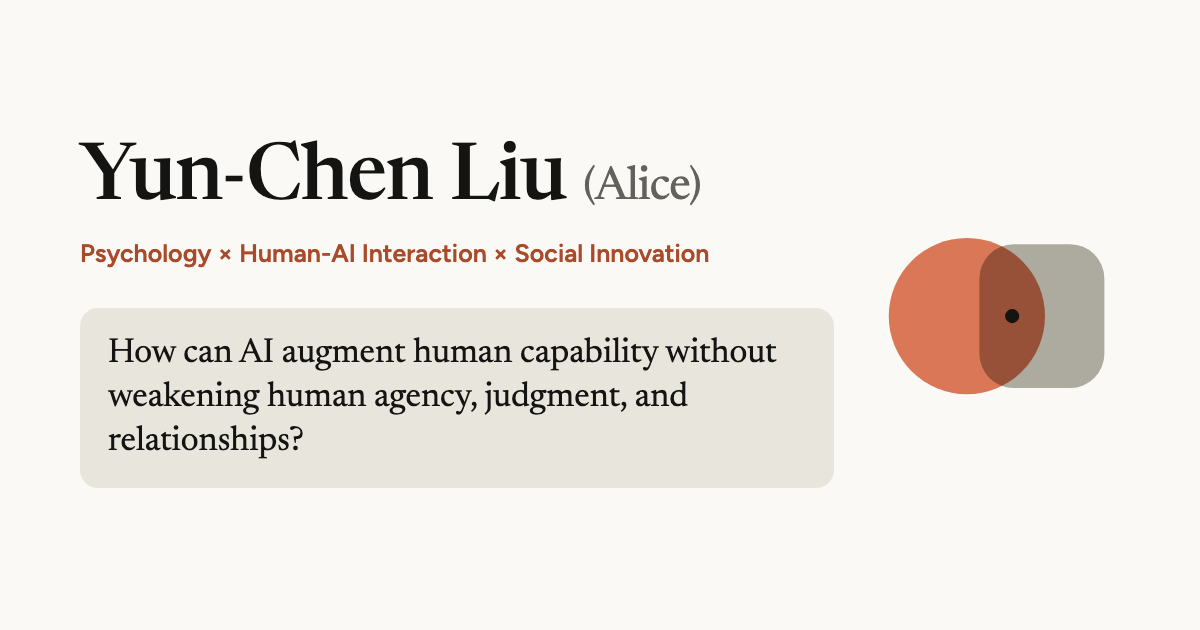
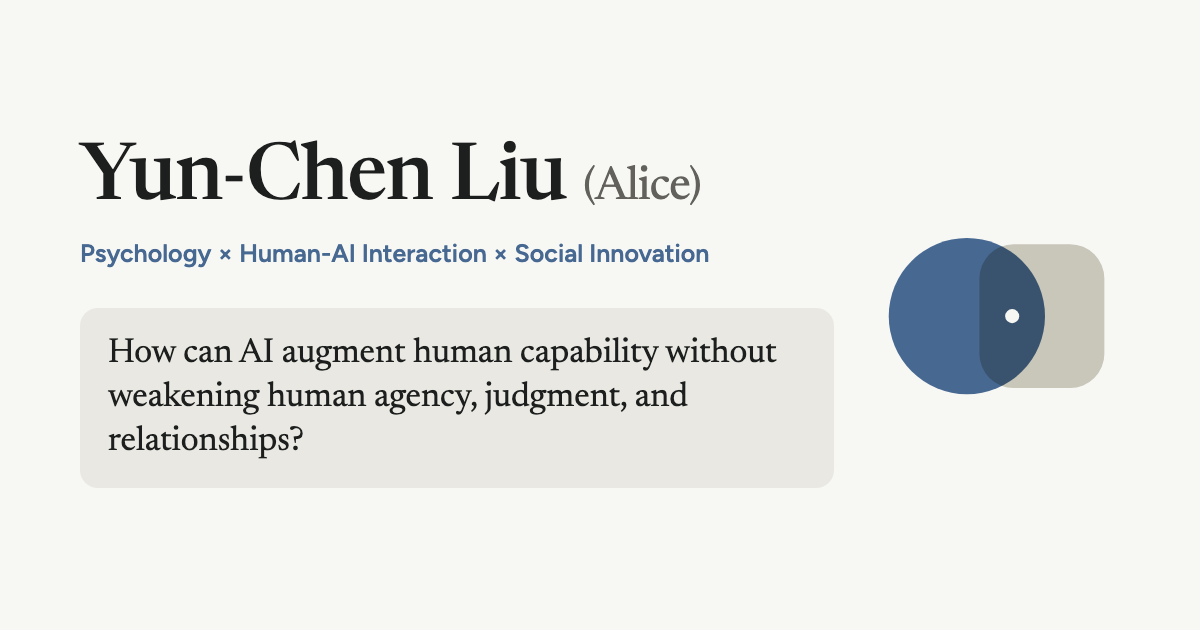
Make a lighter navy the default palette; keep clay family as alternate versions

Changed region(s): [[0.74, 0.3619, 0.925, 0.6333], [0.0617, 0.3921, 0.5858, 0.4222]]

diff --git a/src/styles/global.css b/src/styles/global.css
@@ -1,22 +1,23 @@
 /*
-  Visual concept: "The space between" — a person (warm circle) and a machine
-  (cool rounded square) overlapping. Calm, approachable, research-led.
+  Visual concept: "The space between" — a person (circle) and a machine
+  (rounded square) overlapping. Calm, approachable, research-led.
   Full rationale and tokens: kept in the private design notes
 */
 :root {
   color-scheme: light;
-  /* Default palette "clay" (Anthropic brand colors) */
-  --bg: #faf9f5;          /* ivory */
+  /* Default palette "navy" */
+  --bg: #f7f7f4;
   --surface: #ffffff;
-  --panel: #e8e6dc;       /* light gray */
-  --ink: #141413;         /* dark */
-  --ink-soft: #3d3d3a;
+  --panel: #e9e8e3;
+  --ink: #1c1f1d;
+  --ink-soft: #3d3f3c;
   --muted: #62615b;
-  --line: #e0ddd2;
-  --accent: #a94b2a;      /* clay, darkened for text contrast */
-  --human: #d97757;       /* orange — the person */
-  --machine: #b0aea5;     /* mid gray — the machine */
-  --human-soft: #f6e3d9;
+  --line: #dedcd5;
+  --accent: #466891;      /* links */
+  --human: #466891;       /* navy — the person */
+  --machine: #cfccc2;     /* light gray — the machine */
+  --human-soft: #e3e9f1;
+  --dot: #f7f7f4;         /* human judgment, inside the overlap */
   --radius: 14px;
   --content-width: 1080px;
   --reading-width: 680px;
@@ -30,9 +31,14 @@
 }
 
 /*
-  Palette versions. The default above is "clay". To switch, change
+  Palette versions. The default above is "navy". To switch, change
   `palette` in src/data/site.ts. All text colors meet WCAG AA on --bg and --panel.
+  The "clay" family uses Anthropic brand colors.
 */
+:root[data-palette="clay"], :root[data-palette="clay-olive"], :root[data-palette="fig"], :root[data-palette="kraft"] {
+  --bg: #faf9f5; --panel: #e8e6dc; --ink: #141413; --ink-soft: #3d3d3a; --line: #e0ddd2;
+  --accent: #a94b2a; --human: #d97757; --machine: #b0aea5; --human-soft: #f6e3d9; --dot: #141413;
+}
 :root[data-palette="clay-olive"] { --machine: #788c5d; }
 :root[data-palette="fig"] { --human: #c46686; --machine: #cbcadb; --accent: #9b3f63; --human-soft: #f3dfe7; }
 :root[data-palette="kraft"] { --human: #d4a27f; --machine: #788c5d; --accent: #566b3f; --human-soft: #f3e6da; }
@@ -42,7 +48,7 @@ html { scroll-behavior: smooth; }
 body { margin: 0; min-width: 320px; background: var(--bg); color: var(--ink); font-size: 1.0625rem; line-height: 1.65; }
 a { color: var(--accent); text-decoration-thickness: 1px; text-underline-offset: 0.22em; }
 a:hover { color: var(--ink); }
-a:focus-visible, summary:focus-visible { outline: 3px solid var(--human); outline-offset: 3px; border-radius: 4px; }
+a:focus-visible, summary:focus-visible { outline: 3px solid var(--accent); outline-offset: 3px; border-radius: 4px; }
 ::selection { background: var(--human-soft); color: var(--ink); }
 
 .skip-link { position: absolute; top: 0.75rem; left: 0.75rem; z-index: 20; transform: translateY(-150%); padding: 0.7rem 1rem; border-radius: 8px; background: var(--ink); color: white; }
@@ -62,7 +68,7 @@ a:focus-visible, summary:focus-visible { outline: 3px solid var(--human); outlin
 .mobile-nav { display: none; position: relative; }
 .mobile-nav summary { list-style: none; cursor: pointer; padding: 0.4rem 0.9rem; border: 1px solid var(--line); border-radius: 999px; color: var(--ink); font-size: 0.95rem; }
 .mobile-nav summary::-webkit-details-marker { display: none; }
-.mobile-nav nav { position: absolute; right: 0; top: calc(100% + 0.6rem); z-index: 10; width: 13rem; padding: 0.5rem; border: 1px solid var(--line); border-radius: var(--radius); background: var(--surface); box-shadow: 0 14px 34px #1414131a; }
+.mobile-nav nav { position: absolute; right: 0; top: calc(100% + 0.6rem); z-index: 10; width: 13rem; padding: 0.5rem; border: 1px solid var(--line); border-radius: var(--radius); background: var(--surface); box-shadow: 0 14px 34px #1c1f1d1a; }
 .mobile-nav nav a { display: block; padding: 0.65rem 0.8rem; border-radius: 8px; }
 .mobile-nav nav a[aria-current="page"] { background: var(--panel); color: var(--ink); }
 
@@ -125,7 +131,7 @@ h3 { margin-bottom: 0.35rem; font-size: clamp(1.25rem, 2.2vw, 1.5rem); line-heig
 .path { display: grid; grid-template-columns: repeat(4, minmax(0, 1fr)); gap: 1rem; margin: 1.5rem 0 0; padding: 0; list-style: none; counter-reset: step; }
 .path li { counter-increment: step; padding: 1.1rem 1.1rem 1.2rem; border-radius: var(--radius); background: var(--surface); border: 1px solid var(--line); }
 .path li::before { content: counter(step); display: inline-grid; place-items: center; width: 1.7rem; height: 1.7rem; margin-bottom: 0.7rem; border-radius: 50%; background: var(--human-soft); color: var(--ink); font-size: 0.85rem; font-weight: 600; }
-.path li:last-child::before { background: var(--machine); color: var(--surface); }
+.path li:last-child::before { background: var(--human); color: var(--dot); }
 .path strong { display: block; margin-bottom: 0.3rem; font-family: var(--serif); font-size: 1.12rem; font-weight: 500; }
 .path span { color: var(--ink-soft); font-size: 0.93rem; line-height: 1.55; }
 

diff --git a/src/data/site.ts b/src/data/site.ts
@@ -4,8 +4,8 @@ export const site = {
   identity: 'Psychology × Human-AI Interaction × Social Innovation',
   description:
     'Yun-Chen Liu is a psychology-trained researcher exploring human-centered AI, technology for well-being, and social innovation.',
-  // Palette version: 'clay' | 'clay-olive' | 'fig' | 'kraft' (defined in src/styles/global.css)
-  palette: 'clay',
+  // Palette version: 'navy' | 'clay' | 'clay-olive' | 'fig' | 'kraft' (defined in src/styles/global.css)
+  palette: 'navy',
   linkedin: 'https://www.linkedin.com/in/alice-yunchen-liu/',
   email: 'absolutealice0514@gmail.com',
   affiliations: [
